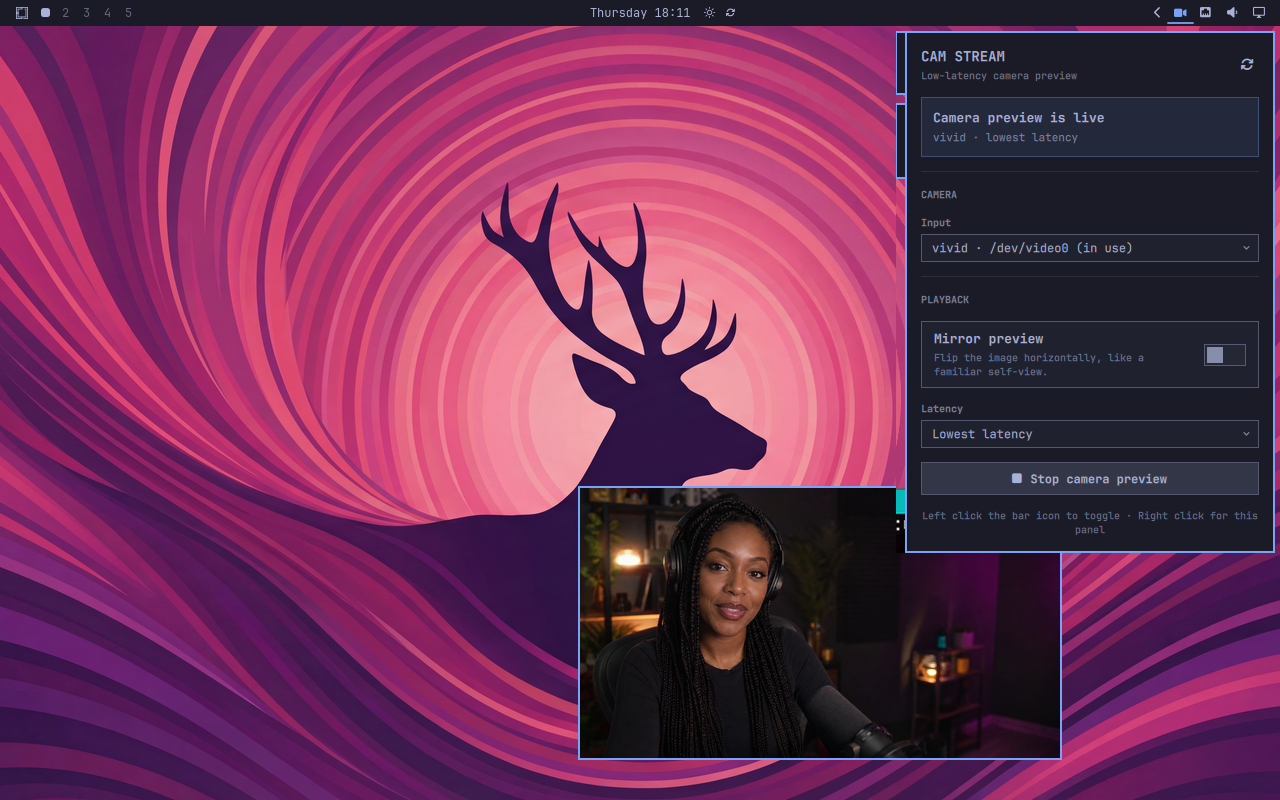
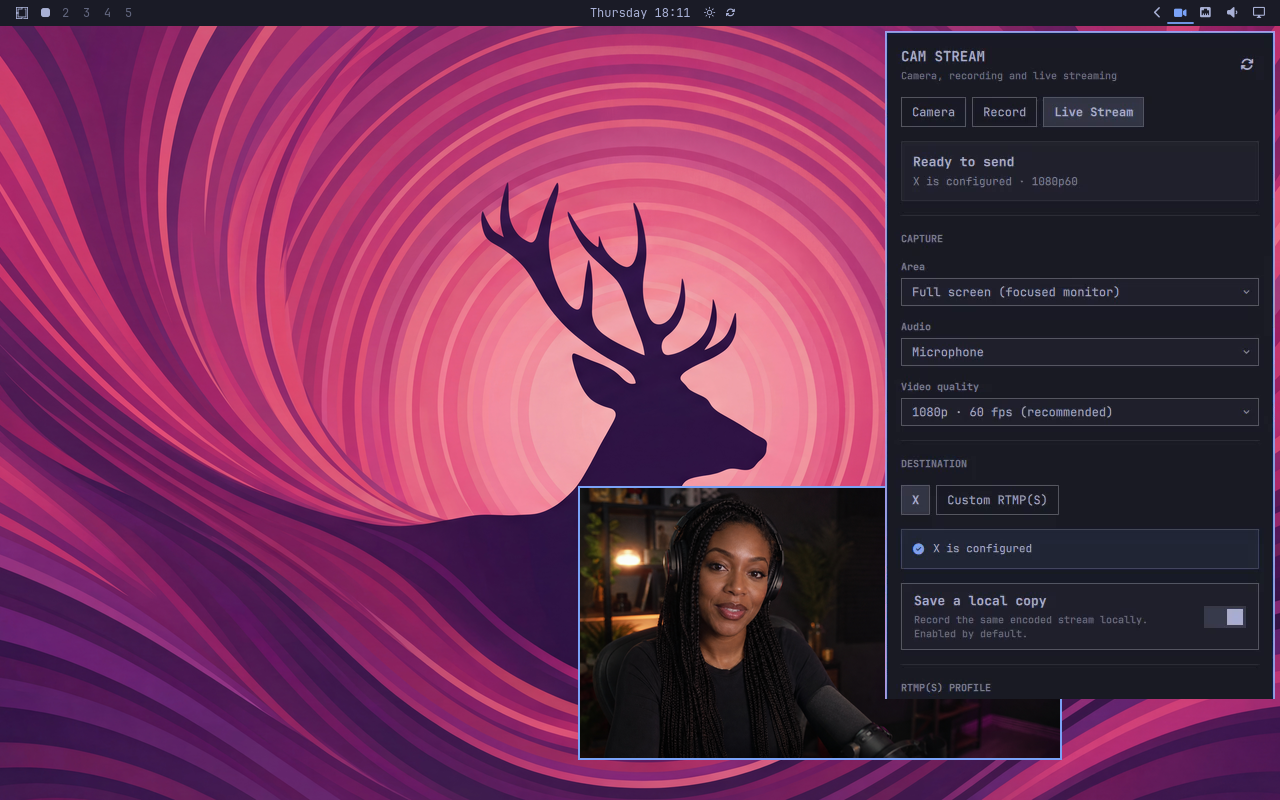
docs: refresh streaming hero and positioning

Changed region(s): [[0.6875, 0.0312, 1.0, 0.875], [0.9688, 0.1562, 1.0, 0.1875]]

diff --git a/README.md b/README.md
@@ -1,15 +1,15 @@
 # Cam Stream
 
 <p align="center">
-  <strong>Camera, recording, and live streaming—native to Omarchy 4 / Quattro.</strong><br>
-  Stream the full desktop and treat your camera like any other Omarchy window.
-  Move it, resize it, tile it, or hide it in real time. No OBS scene required.
+  <strong>Stream the Omarchy desktop you already use.</strong><br>
+  Your camera is a normal movable, resizable window—not a fixed OBS overlay.<br>
+  Capture a focused monitor, window, or region; record it or send it live.
 </p>
 
 <p align="center">
   <img
     src="assets/cam-stream-hero.png"
-    alt="Cam Stream running on an Omarchy Quattro desktop, with a live streamer camera preview and the native control panel open"
+    alt="Cam Stream on an Omarchy Quattro desktop with a movable streamer camera window and the Live Stream controls open for focused-monitor capture, microphone audio, 1080p60, X, and a local copy"
     width="100%"
   >
 </p>
@@ -22,17 +22,27 @@
   <a href="LICENSE"><strong>MIT licensed</strong></a>
 </p>
 
-Cam Stream puts a camera, recorder, and live-stream control in the Omarchy bar.
-Left click the icon to start or stop the low-latency camera window. Right click
-to record the screen or send it directly to X Live Studio or another RTMP(S)
-destination. The camera keeps its own state throughout: starting or stopping a
-recording never changes it.
+## Omarchy is the scene
 
-Full-screen capture is the default. Window and freeform region pickers use the
-familiar Omarchy capture flow, and the last capture mode is remembered. A local
-copy is recorded by default while sending live. The widget follows the active
-theme and shows distinct camera, recording, sending, stopped, error, and
-no-camera states.
+Cam Stream turns the desktop itself into the streaming layout. Instead of
+rebuilding your windows inside a fixed OBS canvas, arrange Omarchy exactly as
+you want viewers to see it and capture that. The camera preview behaves like
+any other Omarchy window: move it, resize it, tile it, float it, or hide it
+while the stream is running. Its video fills the window as the layout changes.
+
+| Camera | Record | Live Stream |
+| --- | --- | --- |
+| Low-latency V4L2 preview with realtime and smoother modes, camera selection, and mirroring. | Capture the focused monitor, a picked window, or a freeform region with your chosen audio and quality; pause, resume, and save to MP4. | Send the same capture to X Live Studio or a custom RTMP(S) endpoint; keys stay in the desktop keyring and a local copy is enabled by default. |
+
+The camera and capture activity deliberately keep separate state. Starting or
+stopping a recording or live send never changes the camera window, so the
+layout on screen stays under your control. Full screen is the default capture
+mode; the familiar Omarchy window and region pickers are also available, and
+Cam Stream remembers the last choice.
+
+Cam Stream lives in the Omarchy bar. Left click toggles the camera. Right click
+opens the themed Camera, Record, and Live Stream controls, with distinct states
+for previewing, recording, sending, stopped, error, and no-camera conditions.
 
 ## Install
 
@@ -78,8 +88,8 @@ Cam Stream is live in the project-recommended community gallery. Open the
 to review it or copy the install command. Its
 [submission issue](https://github.com/HANCORE-linux/omarchy-plugin-marketplace/issues/129)
 passed automated Quattro validation and maintainer review; the marketplace
-tracks the current validated `main` branch for later versions and preview
-updates.
+periodically revalidates the current `main` branch for later versions,
+description changes, and preview updates.
 
 Plugin authors can submit another public Quattro plugin by following the
 marketplace's [submission guide](https://github.com/HANCORE-linux/omarchy-plugin-marketplace/blob/main/SUBMISSION.md).
@@ -204,7 +214,9 @@ frame rate; recordings use GPU Screen Recorder's very-high quality mode.
 
 Cam Stream supports an **X** profile and a **Custom** RTMP(S) profile. X always
 uses encrypted RTMPS; custom destinations may use RTMP, though RTMPS is strongly
-recommended. For X:
+recommended. Cam Stream does not sign in to X or publish on your behalf. It
+sends to the RTMPS ingest that X Live Studio gives you; previewing, going public,
+and ending the broadcast stay in X. To use it:
 
 1. Open [X Live Studio](https://x.com/i/live-studio) and create or select a
    source.
